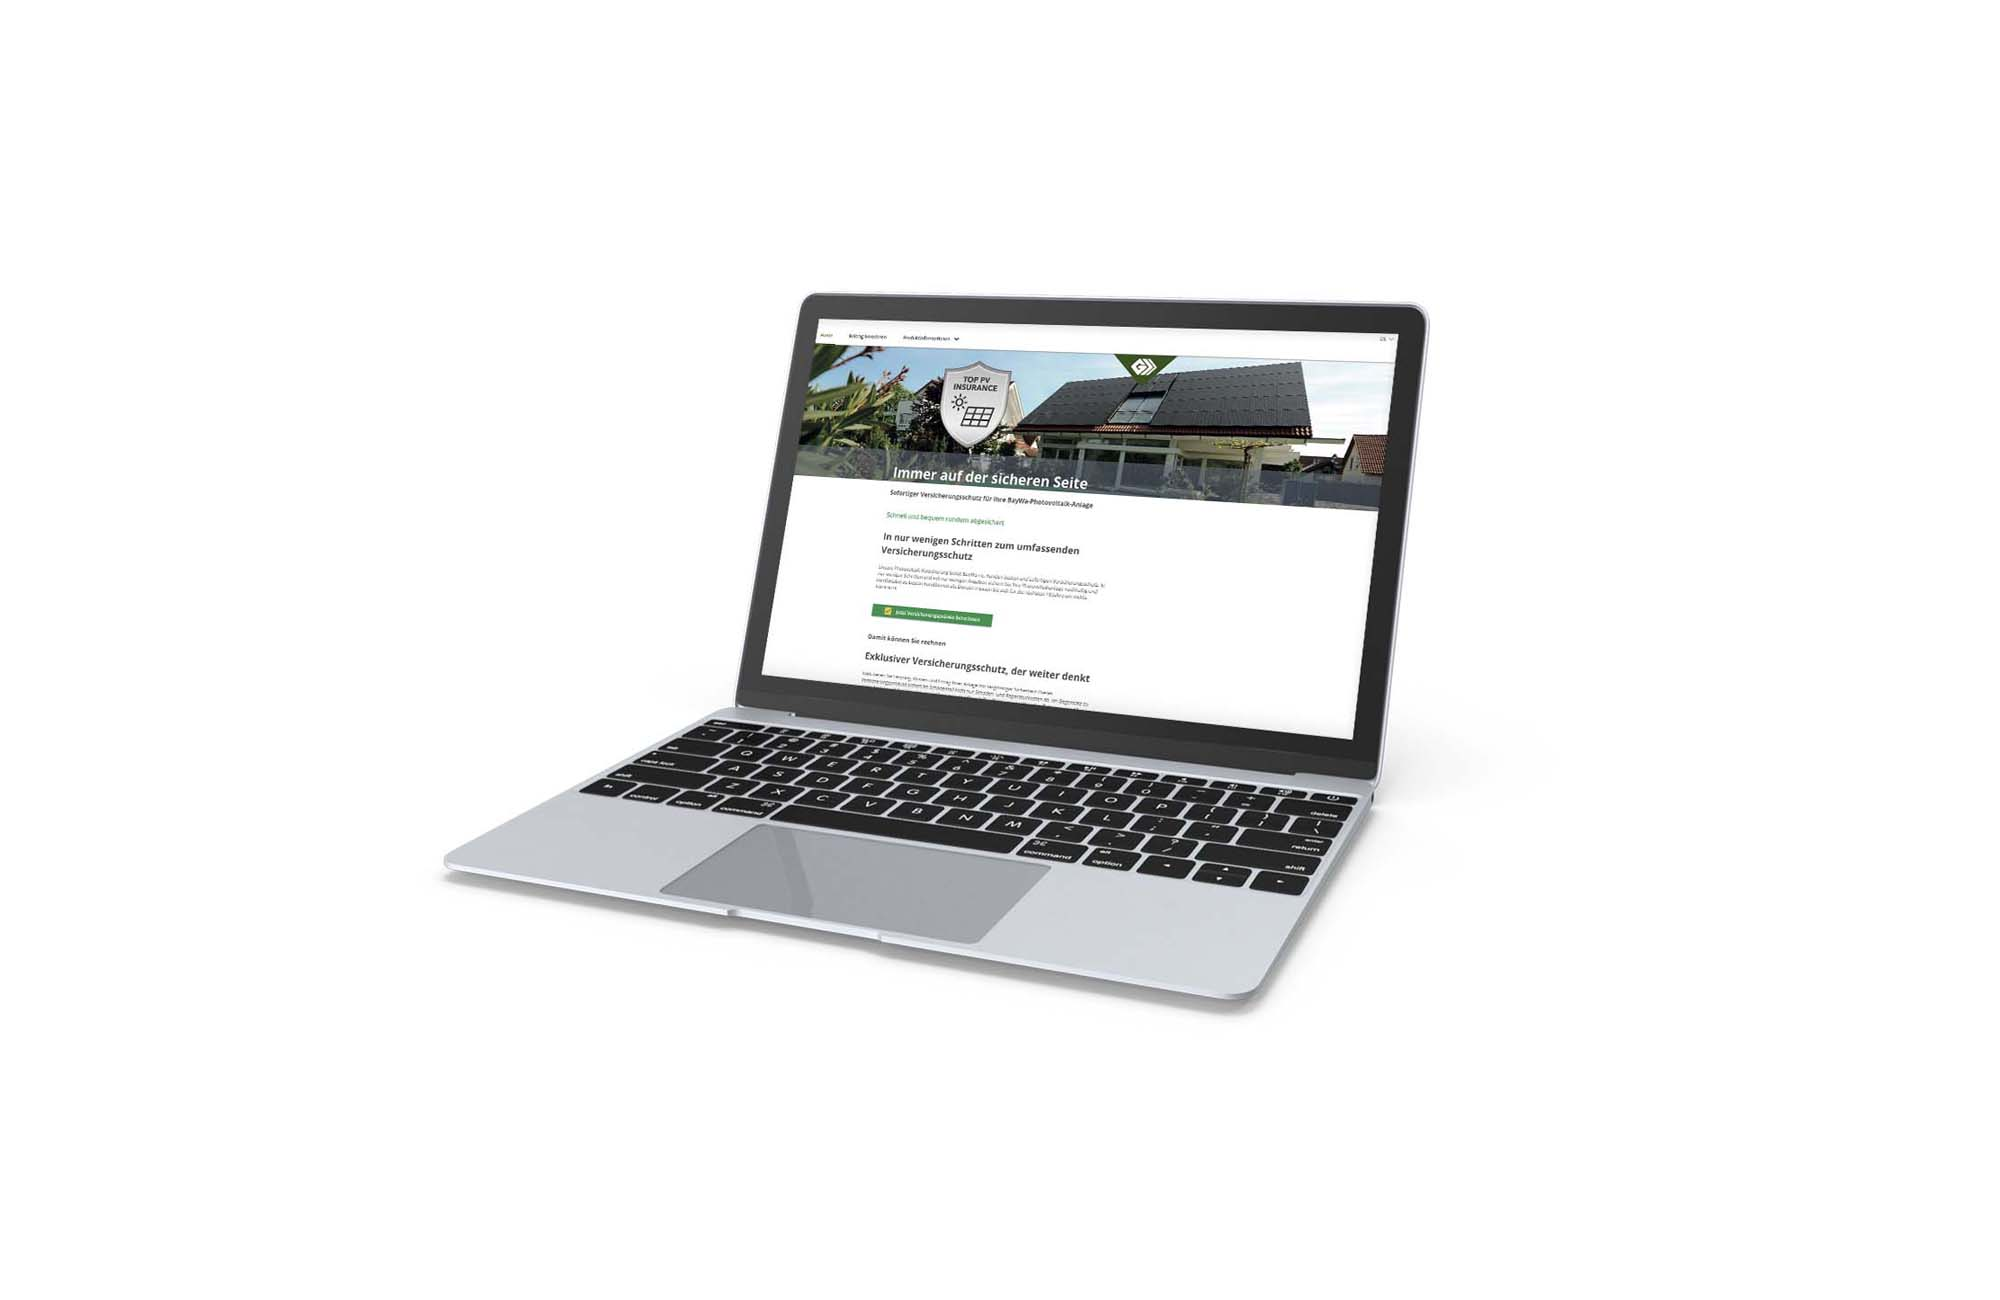
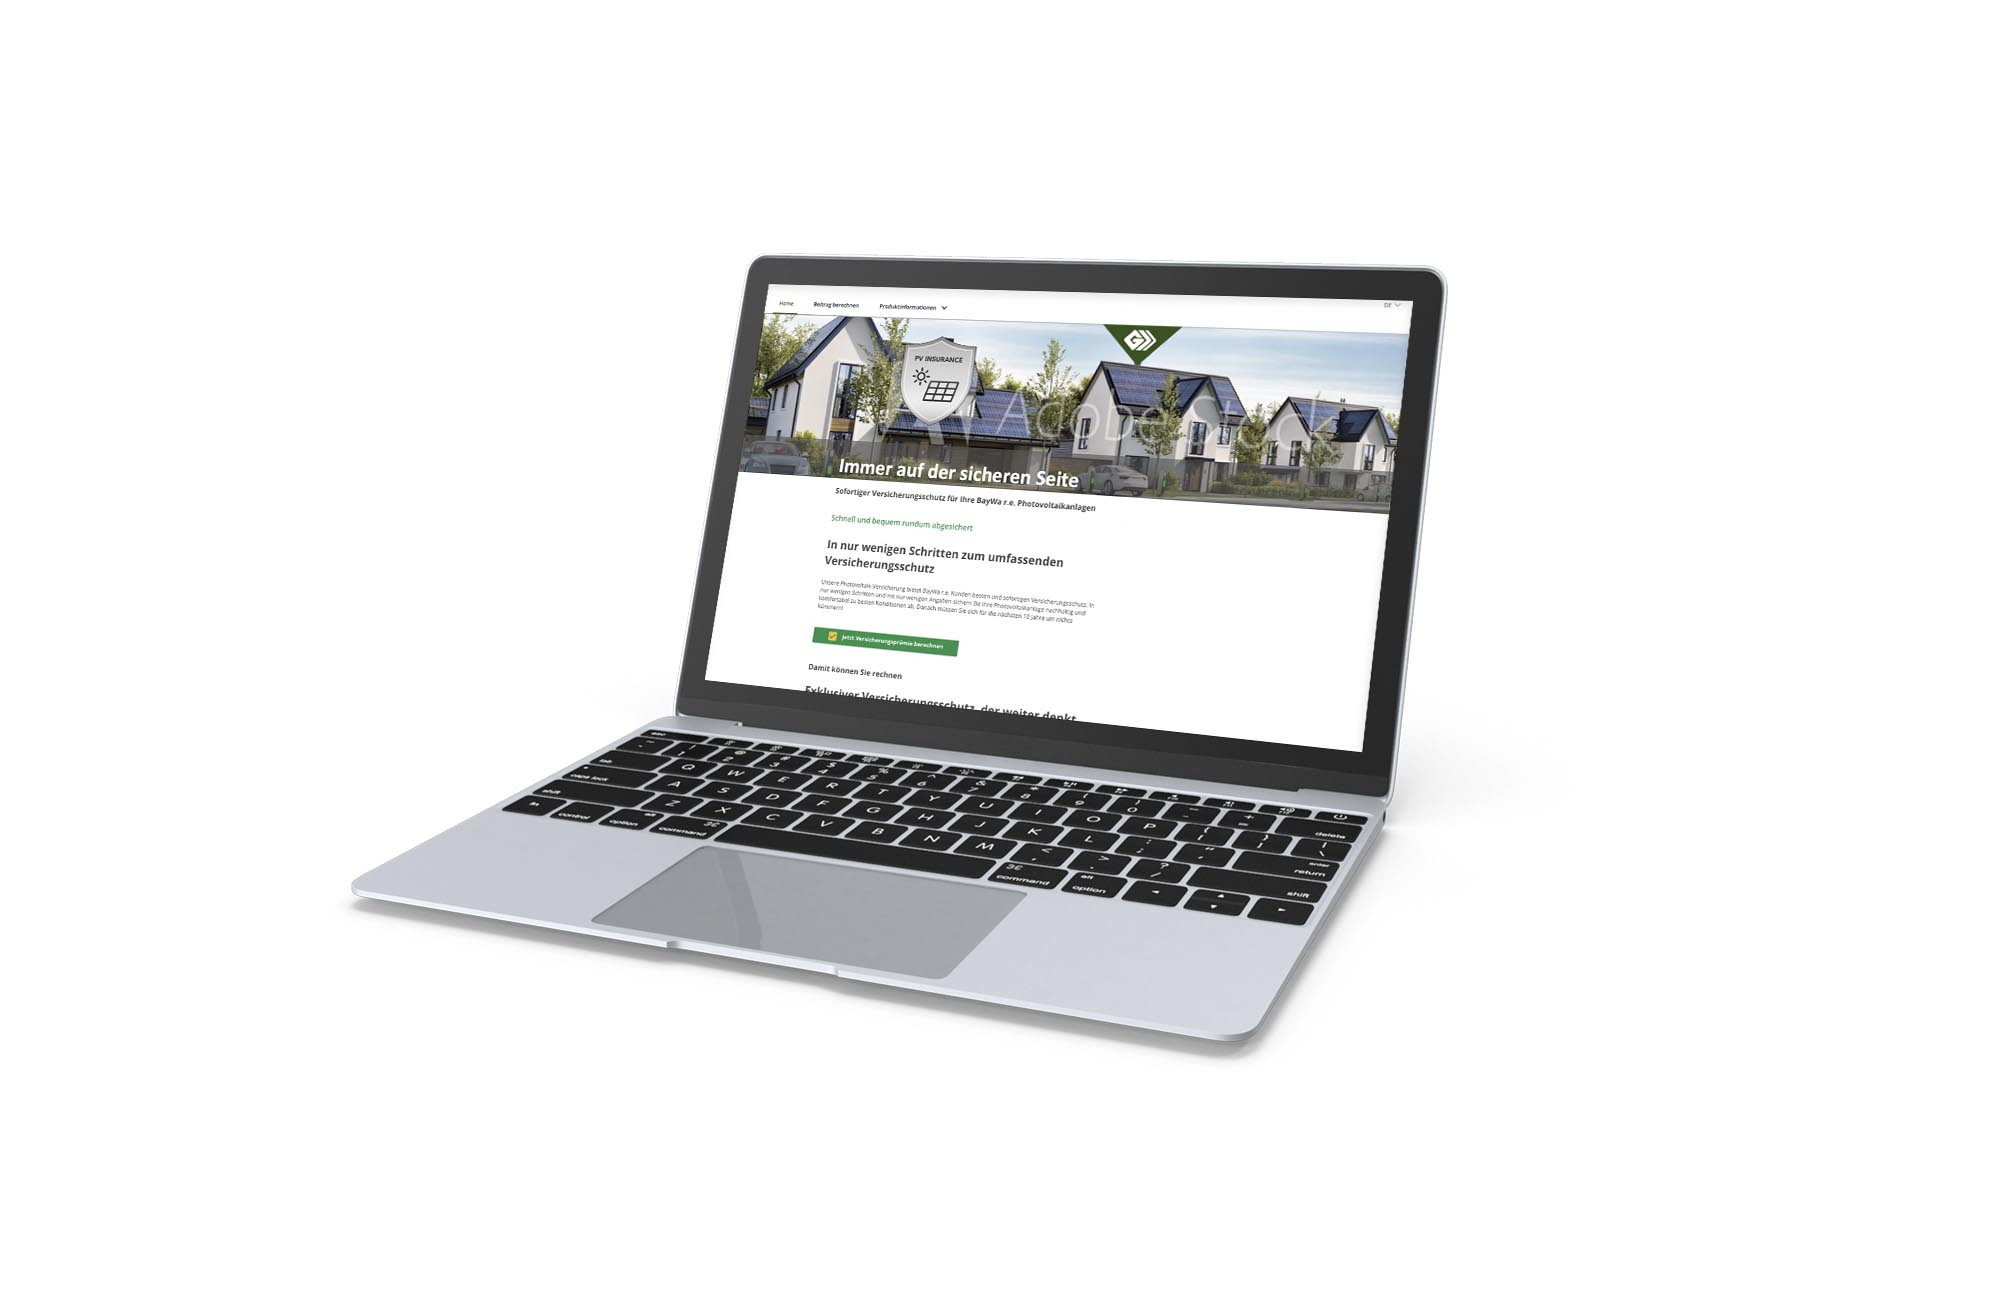
Add files via upload
update pic

Changed region(s): [[0.155, 0.1846, 0.744, 0.8308]]

diff --git a/index.html b/index.html
@@ -25,7 +25,7 @@
             <!-- <div class="ae-1"><p class="larger light margin-bottom-1 opacity-8">At a glance</p></div> -->
             <h2 class="large margin-bottom-2 ae-1">Coming soon...</h2>
             <ul class="list medium ae-2 opacity-8">
-              <li class="ae-3 bold">BUY YOUR TOP PV INSURANCE ONLINE</li>              
+              <li class="ae-3 bold">BUY YOUR PV INSURANCE ONLINE</li>              
             </ul>
             <div id="flipdown" class="ae-5 margin-top-2 flipdown flipdown__theme-light  "></div>
           </div>
